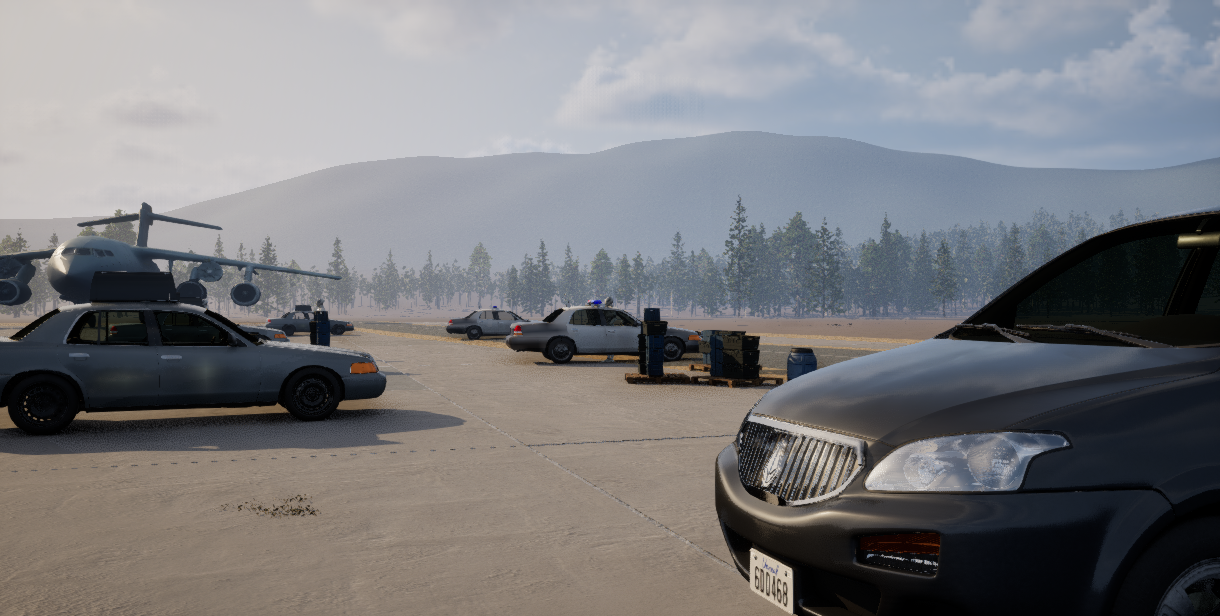
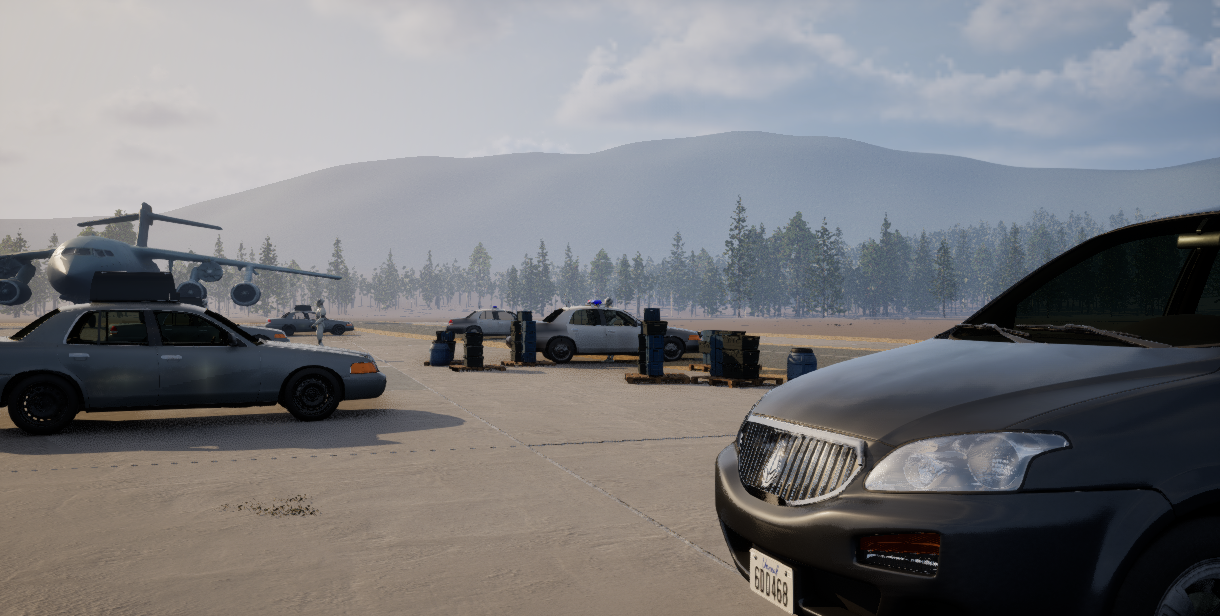
Promote accepted cargo occlusion pass

diff --git a/index.html b/index.html
@@ -27,7 +27,7 @@
     <section>
       <h2>Reload</h2>
       <div class="pair">
-        <figure><img src="images/current-reload.png" alt="Current D02 Reload"><figcaption>当前 D02（Surface + Fog 5.5 + SkyLight 0.98）</figcaption></figure>
+        <figure><img src="images/current-reload.png" alt="Current D02 Reload"><figcaption>当前 D02（Surface + Fog 5.5 + SkyLight 0.98 + Cargo Occlusion）</figcaption></figure>
         <figure><img src="images/reference-reload.png" alt="007 reference Reload"><figcaption>007 参考</figcaption></figure>
       </div>
     </section>
@@ -35,7 +35,7 @@
     <section>
       <h2>Vault</h2>
       <div class="pair">
-        <figure><img src="images/current-vault.png" alt="Current D02 Vault"><figcaption>当前 D02（Surface + Fog 5.5 + SkyLight 0.98）</figcaption></figure>
+        <figure><img src="images/current-vault.png" alt="Current D02 Vault"><figcaption>当前 D02（Surface + Fog 5.5 + SkyLight 0.98 + Cargo Occlusion）</figcaption></figure>
         <figure><img src="images/reference-vault.png" alt="007 reference Vault"><figcaption>007 参考</figcaption></figure>
       </div>
     </section>
@@ -43,7 +43,7 @@
     <section>
       <h2>Aim</h2>
       <div class="pair">
-        <figure><img src="images/current-aim.png" alt="Current D02 Aim"><figcaption>当前 D02（Surface + Fog 5.5 + SkyLight 0.98）</figcaption></figure>
+        <figure><img src="images/current-aim.png" alt="Current D02 Aim"><figcaption>当前 D02（Surface + Fog 5.5 + SkyLight 0.98 + Cargo Occlusion）</figcaption></figure>
         <figure><img src="images/reference-aim.png" alt="007 reference Aim"><figcaption>007 参考</figcaption></figure>
       </div>
     </section>
@@ -89,8 +89,8 @@
     </section>
 
     <section>
-      <h2>Cargo Occlusion Trial（未保存试验）</h2>
-      <p>仅将现有 D02_CargoSecondary 完整货物组的 25 个 Actor 统一沿 Y 移动 +500 cm；车辆、飞机、货物高度/旋转/缩放、地表、Landscape/Foliage 和 UDS 均不变。</p>
+      <h2>Cargo Occlusion（GPT Pro 已通过并保存）</h2>
+      <p>现有 D02_CargoSecondary 完整货物组的 25 个 Actor 仅沿 Y 移动 +500 cm；GPT Pro 整体 KEEP。车辆、飞机、货物 X/Z/旋转/缩放、Landscape/Foliage 和 UDS 均不变。</p>
       <div class="pair">
         <figure><img src="images/cargo-occlusion-trial-reload.png" alt="Cargo occlusion trial Reload"><figcaption>Cargo Occlusion Trial / Reload</figcaption></figure>
         <figure><img src="images/cargo-occlusion-trial-vault.png" alt="Cargo occlusion trial Vault"><figcaption>Cargo Occlusion Trial / Vault</figcaption></figure>
